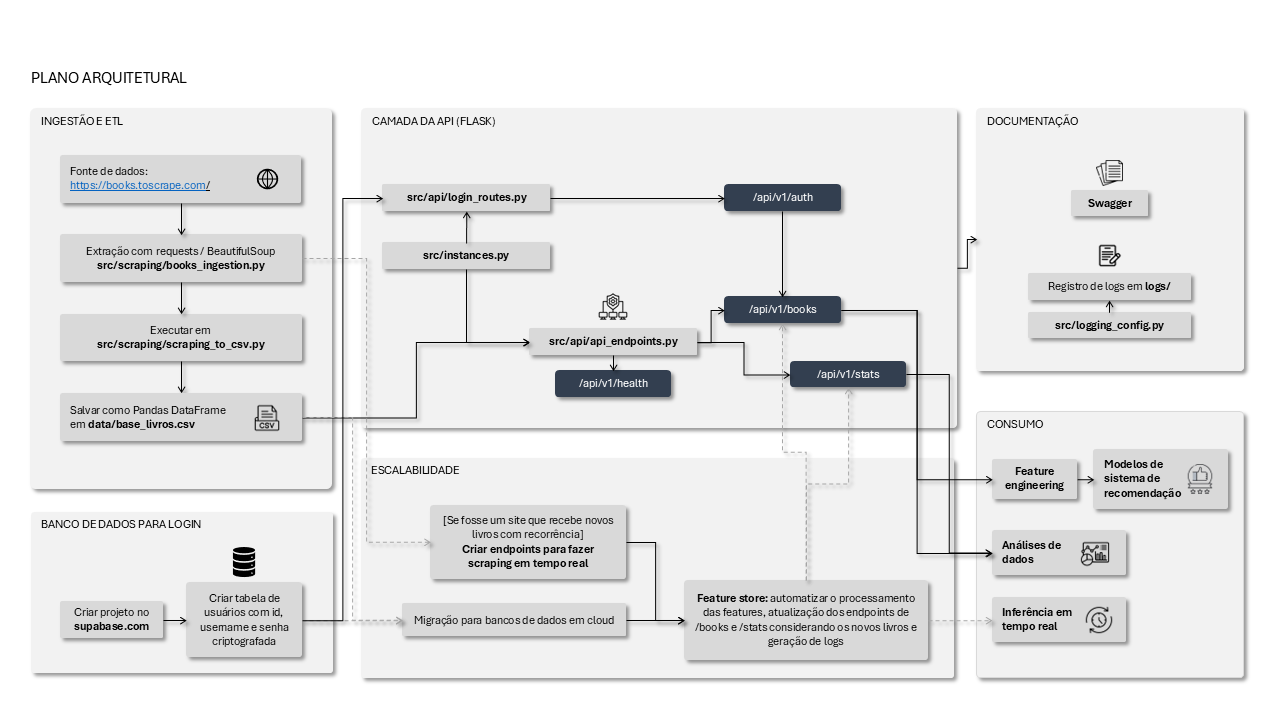
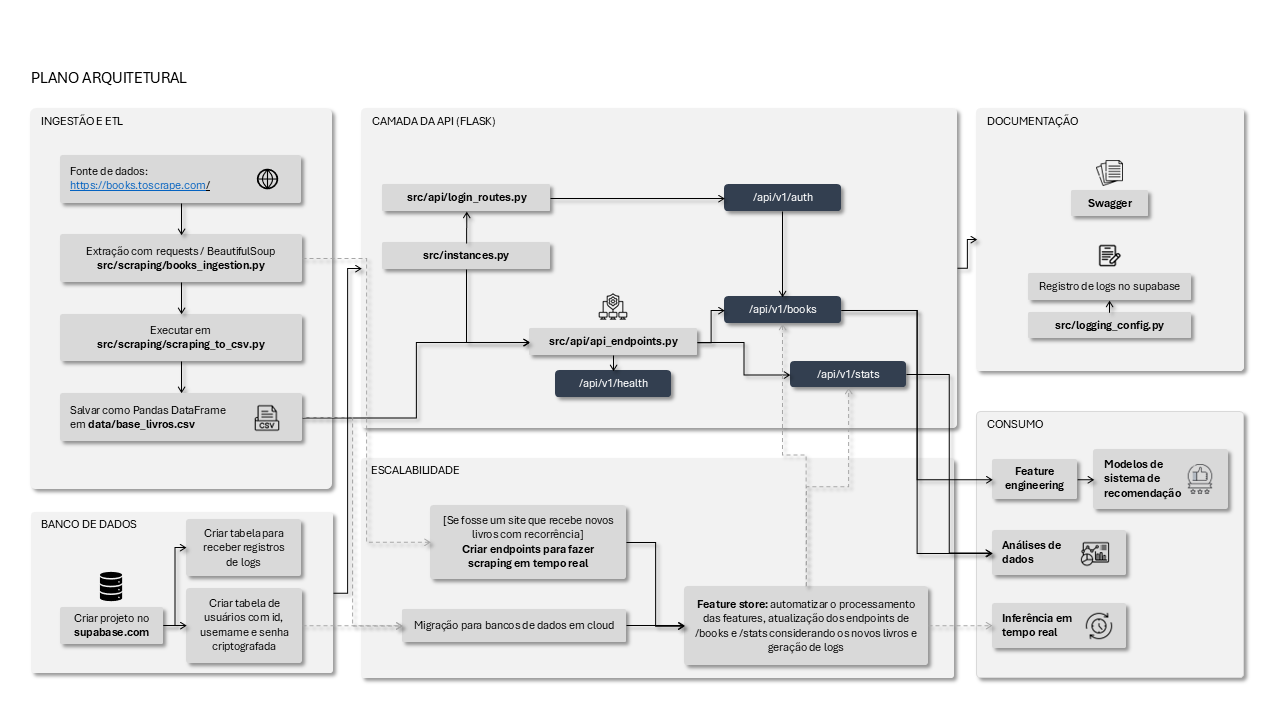
alteracoes no diagrama com adicao de tabela do registro de logs

diff --git a/README.md b/README.md
@@ -11,6 +11,7 @@ Este aplicativo é uma **API pública** que fornece dados para realizar análise
 - **Operações CRUD:**<br>Endpoints `POST` (para registro do usuário e login para obtenção do token de acesso) e `GET` (para obter dados dos livros)
 - **Sistema de autenticação:**<br>Baseado em JWT (JSON Web Tokens). O usuário cria suas credenciais (login e senha) e esses dados de autenticação são persistidos no Supabase (PostgreSQL). Ao realizar a autenticação, a API retorna um token que deve ser utilizado para acessar rotas protegidas via `Authorization: Bearer <token>`
 - **Documentação:**<br>Obtida automaticamente com Swagger
+- **Registro de logs:**<br>As requisições dos usuários são registradas em uma tabela no Supabase para análises de uso da API
 
 ## 📐 Arquitetura
 ![Plano arquitetural](diagrams/plano_arquitetural.png)
@@ -161,7 +162,6 @@ print(resp)
 **Monitoramento e analytics**
 1. Métricas de performance da API
 2. Dashboard simples de uso (streamlit)
-3. Registrar dados de uso da API por usuário (para análises de uso)
 
 **Escalabilidade**
 1. [Se a fonte de dados recebesse novos livros com frequência] Criar endpoints para fazer o scraping dos novos livros e armazenar em banco de dados
